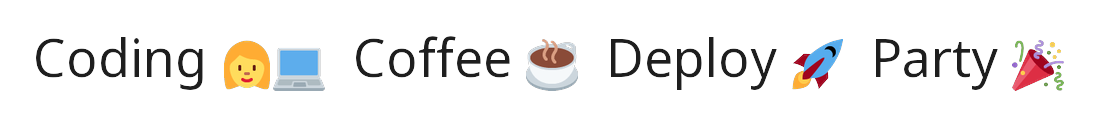
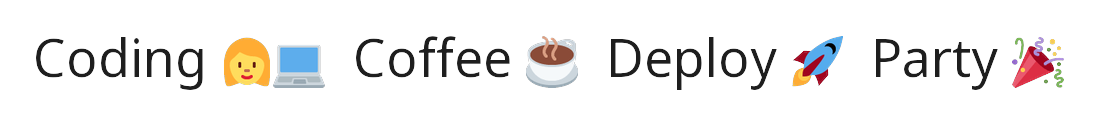
fix(FontManager): prevent text clipping for emoji leading segments in draw_text()

diff --git a/src/fontstack/manager.py b/src/fontstack/manager.py
@@ -651,13 +651,16 @@ class FontManager:
             x_seg = MARGIN
             for segment in self._segment_text(line, ctx):
                 if EMOJI_REGEX.search(segment.text):
-                    # Emoji are not drawn to the measurement canvas; advance
-                    # x by the reported size so subsequent segments land at
-                    # the correct horizontal position.
-                    try:
-                        x_seg += int(segment.font.getlength(segment.text))
-                    except Exception:
-                        x_seg += ctx.size
+                    # Pilmoji renders each emoji sequence as a square image of
+                    # side ctx.size starting exactly at x_seg (no left bearing).
+                    # Paint a single pixel at the emoji's top-left corner so
+                    # that getbbox() includes the emoji's left edge in vis_l.
+                    # Without this, vis_l only reflects the first *text* segment
+                    # and x_off would shift emoji-leading lines too far left.
+                    seg_asc = segment.font.getmetrics()[0]
+                    emoji_top = baseline - seg_asc
+                    temp_draw.point((int(x_seg), int(emoji_top)), fill=255)
+                    x_seg += ctx.size
                     continue
                 seg_asc = segment.font.getmetrics()[0]
                 seg_y = baseline - seg_asc
@@ -1133,9 +1136,15 @@ class FontManager:
                     # getmask2 returns offset[1] ≈ vto, giving line_y ≈ y_pos
                     # already.  No correction needed (oy = 0).
                     has_emoji = bool(EMOJI_REGEX.search(segment.text))
-                    emoji_oy = (
-                        int(visual_top_offset - primary_ascent) if has_emoji else 0
-                    )
+                    if has_emoji:
+                        # Place emoji top at the actual text visual top.
+                        # visual_top_offset - primary_ascent lands emoji at
+                        # y_pos, but the real text visual top is y_pos + vis_t
+                        # (vis_t is ≤ 0 when antialiased pixels appear above
+                        # y_pos).  Adding vis_t closes the gap.
+                        emoji_oy = int(visual_top_offset - primary_ascent + vis_t)
+                    else:
+                        emoji_oy = 0
 
                     text_kwargs: dict = {
                         "fill": seg_fill,

diff --git a/tests/test_rendering.py b/tests/test_rendering.py
@@ -737,5 +737,22 @@ class TestDrawAnchor:
         with pytest.raises(ValueError, match="anchor must be one of"):
             font_manager.draw(img, "Hello", position=(0, 0), anchor="xx")  # type: ignore[arg-type]
 
+    def test_emoji_leading_text_not_clipped(self, font_manager: FontManager) -> None:
+        """Text starting with an emoji must not be shifted off the left edge.
+
+        _measure_block advances x by ctx.size for emoji segments (not by
+        font.getlength, which returns a .notdef advance).  A wrong advance
+        inflates vis_l and causes x_off = -vis_l to push the block off-canvas.
+        """
+        px, py = 100, 100
+        img = self._canvas()
+        font_manager.draw(img, "🏆 Winner", position=(px, py), size=32, anchor="lt")
+
+        bbox = img.getbbox()
+        assert bbox is not None
+        # The leftmost rendered pixel must be at or to the right of px.
+        # A negative x_off bug would place it significantly left of px.
+        assert bbox[0] >= px - 2  # allow 2 px for sub-pixel bearing
+
 
 # endregion

diff --git a/src/fontstack/__init__.py b/src/fontstack/__init__.py
@@ -1,6 +1,6 @@
 """FontStack - Unicode text rendering with automatic per-character font fallback."""
 
-__version__ = "0.3.3"
+__version__ = "0.3.4"
 
 from fontstack.discovery import scan_font_dir
 from fontstack.draw import draw_text

diff --git a/CHANGELOG.md b/CHANGELOG.md
@@ -5,6 +5,15 @@ All notable changes to this project will be documented in this file.
 The format is based on [Keep a Changelog](https://keepachangelog.com/en/1.1.0/),
 and this project adheres to [Semantic Versioning](https://semver.org/spec/v2.0.0.html).
 
+## [0.3.4] - 2026-05-03
+
+### Fixed
+
+- Glyphs with negative left side bearings (certain Arabic contextual forms extend 1 px left of the advance origin) were clipped at the canvas edge in `draw_text()`. A 4 px overhang buffer is now added to `margin` so the leftmost pixel always falls within the canvas before the `getbbox()` crop removes the surplus space.
+- `_measure_block` computed the visual bounding box by rendering all characters with the primary (Latin) font. For Arabic/CJK fallback text, this produced `.notdef` tofu boxes whose left inset did not match the real glyphs, yielding an incorrect `vis_l` and a negative `x_off` that clipped text against the left edge. `_measure_block` now iterates `_segment_text` and draws each segment with its actual fallback font, matching the per-font logic of `_render_segments`.
+- Text blocks starting with an emoji were shifted left by `vis_l` pixels when using anchor `"lt"`. The measurement canvas previously skipped emoji segments but advanced `x_seg` by `font.getlength()`, which returns the `.notdef` advance (~38 px at size 64) rather than the actual pilmoji render width (~64 px). This inflated `vis_l`, causing `x_off = -vis_l` to push the whole block off-canvas. The fix paints a sentinel pixel at each emoji's top-left corner in the measurement canvas so `getbbox()` sees the true left boundary of the line, and advances `x_seg` by `ctx.size` (the actual pilmoji square size).
+- `emoji_position_offset` is now adjusted by `vis_t` (the vertical offset returned by `_measure_block`) so emoji tops align with the true visual top of the text rather than the nominal `y_pos`, eliminating a ~1 px low-drift when the anchor shifts the draw position upward.
+
 ## [0.3.3] - 2026-05-03
 
 ### Fixed
